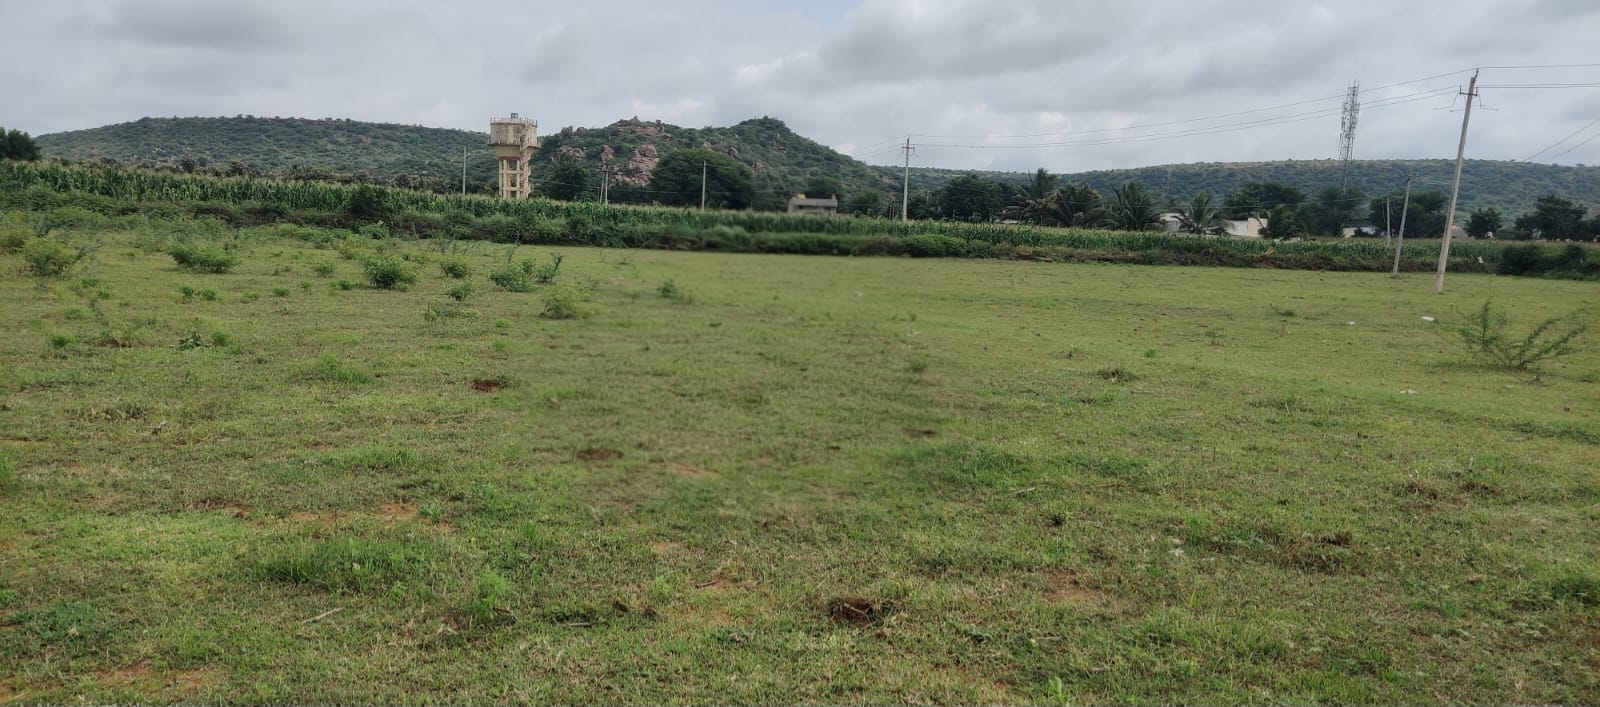
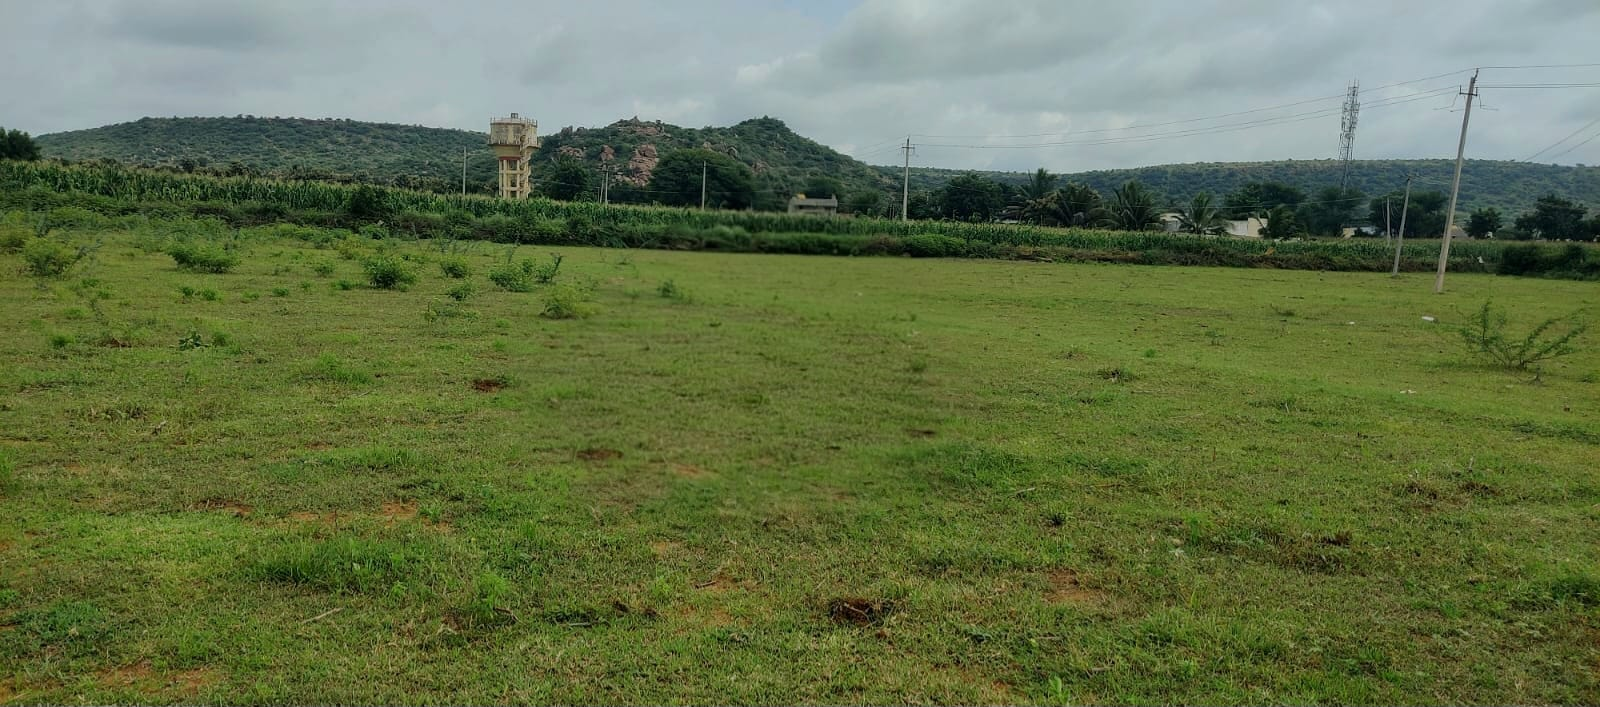
feat(vision): use edited before/after photos, drop all overlays
- Swap in user-edited before/after images
- Remove saturate/contrast/brightness filters
- Remove black tint and top/bottom vignette gradients
- Keep only the label pills with backdrop-blur so they read on the photos

diff --git a/src/components/sections/BeforeAfterSlider.tsx b/src/components/sections/BeforeAfterSlider.tsx
@@ -52,13 +52,8 @@ export const BeforeAfterSlider = () => {
           <img
             src="/vision-after.jpeg"
             alt="Banashri Enclave — after development"
-            className="absolute inset-0 w-full h-full object-cover saturate-[1.15] contrast-[1.08]"
+            className="absolute inset-0 w-full h-full object-cover"
           />
-          {/* Deep-forest darken (40%) + top/bottom vignette so the colours
-              read richer and the labels stay legible on bright skies. */}
-          <div className="absolute inset-0 bg-deep-forest/40 pointer-events-none" />
-          <div className="absolute inset-x-0 top-0 h-32 bg-gradient-to-b from-deep-forest/55 to-transparent pointer-events-none" />
-          <div className="absolute inset-x-0 bottom-0 h-32 bg-gradient-to-t from-deep-forest/55 to-transparent pointer-events-none" />
 
           {/* "After" label */}
           <div className="absolute top-5 right-5 px-4 py-2 bg-available/25 border border-available/40 rounded-full z-10 backdrop-blur-sm">
@@ -74,14 +69,11 @@ export const BeforeAfterSlider = () => {
             <img
               src="/vision-before.jpeg"
               alt="Banashri Enclave — raw land before development"
-              className="absolute inset-0 w-full h-full object-cover saturate-[1.15] contrast-[1.08]"
+              className="absolute inset-0 w-full h-full object-cover"
             />
-            <div className="absolute inset-0 bg-deep-forest/40 pointer-events-none" />
-            <div className="absolute inset-x-0 top-0 h-32 bg-gradient-to-b from-deep-forest/55 to-transparent pointer-events-none" />
-            <div className="absolute inset-x-0 bottom-0 h-32 bg-gradient-to-t from-deep-forest/55 to-transparent pointer-events-none" />
 
             {/* "Before" label */}
-            <div className="absolute top-5 left-5 px-4 py-2 bg-deep-forest/90 border border-champagne rounded-full backdrop-blur-sm">
+            <div className="absolute top-5 left-5 px-4 py-2 bg-black/80 border border-champagne rounded-full backdrop-blur-sm">
               <span className="text-[10px] uppercase tracking-widest text-cream font-bold">Raw Land</span>
             </div>
           </div>